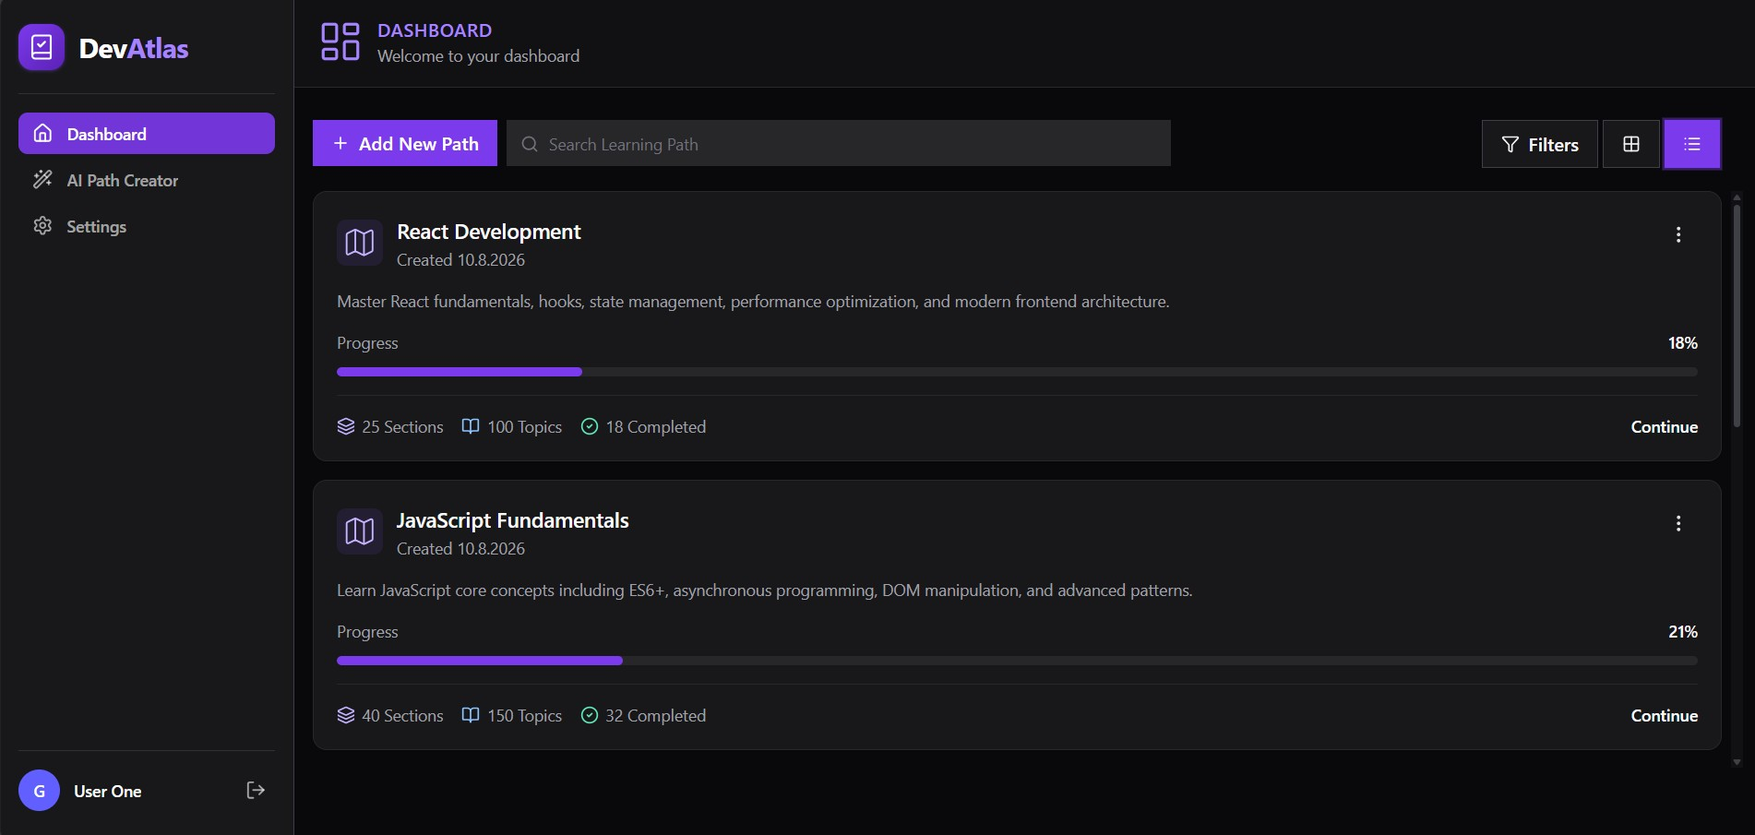
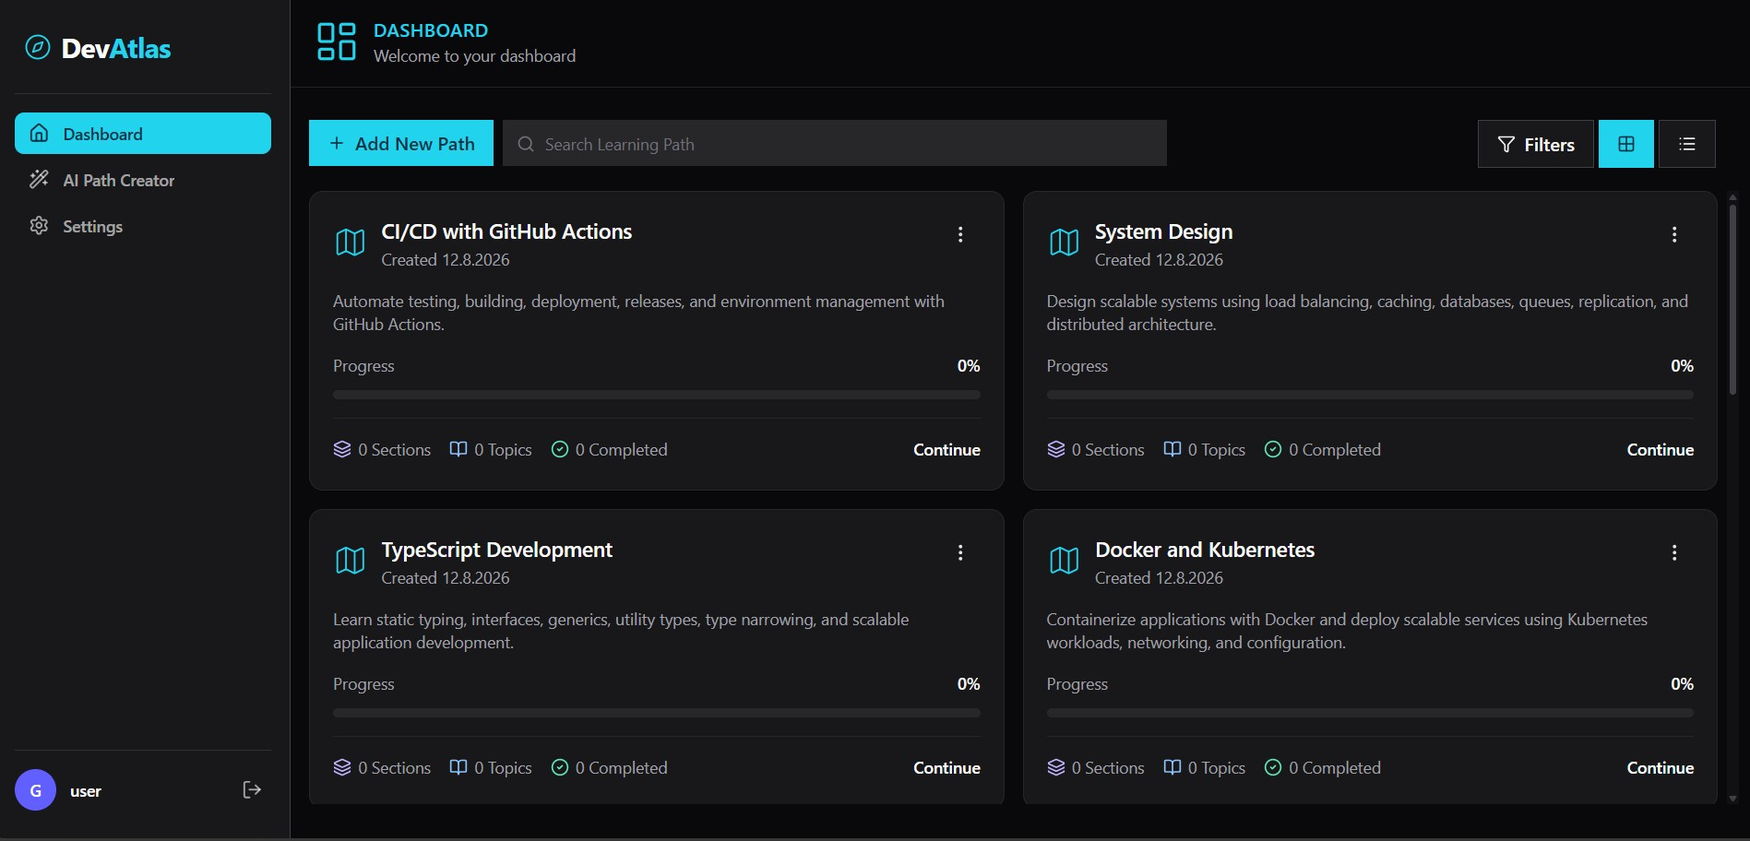
theme changed to cyan

diff --git a/frontend/src/home/copmonents/Hero.tsx b/frontend/src/home/copmonents/Hero.tsx
@@ -12,7 +12,7 @@ export function Hero() {
             />
             <div
                 aria-hidden="true"
-                className="pointer-events-none absolute left-1/2 top-[-18rem] -z-10 h-[36rem] w-[56rem] -translate-x-1/2 rounded-full bg-brand-primary/25 blur-[120px]"
+                className="pointer-events-none absolute left-1/2 top-[-18rem] -z-10 h-[36rem] w-[56rem] -translate-x-1/2 rounded-full bg-brand-primary-dark/20 blur-[120px]"
             />
 
             <nav className="mx-auto flex h-20 w-full max-w-6xl items-center justify-between px-6 md:px-10">
@@ -20,16 +20,10 @@ export function Hero() {
                     to="/"
                     className="text-2xl font-bold tracking-tight text-white"
                 >
-                    Dev<span className="text-violet-400">Atlas</span>
+                    Dev<span className="text-brand-primary-dark">Atlas</span>
                 </Link>
 
                 <div className="flex items-center gap-2">
-                    <Link
-                        to="/dashboard"
-                        className="rounded-lg px-4 py-2 text-sm font-medium text-zinc-400 transition hover:text-white"
-                    >
-                        Dashboard
-                    </Link>
                     <Link
                         to="/auth/login"
                         className="rounded-lg border border-white/10 bg-white/5 dark:bg-stone-900/80 px-4 py-2 text-sm font-medium text-zinc-200 transition hover:border-white/20 hover:bg-white/10"
@@ -48,7 +42,7 @@ export function Hero() {
 
                 <h1 className="mt-6 text-balance text-4xl font-bold leading-[1.1] tracking-tight text-white sm:text-5xl lg:text-6xl">
                     Organize your developer knowledge in{" "}
-                    <span className="bg-gradient-to-r from-purple-500 to-indigo-400 bg-clip-text text-transparent">
+                    <span className="bg-gradient-to-r from-brand-primary-dark-active to-brand-primary-dark-hover bg-clip-text text-transparent">
                         one place
                     </span>.
                 </h1>
@@ -61,7 +55,7 @@ export function Hero() {
                 <div className="mt-9 flex flex-col items-center gap-3 sm:flex-row">
                     <Link
                         to="/auth/signup"
-                        className="group inline-flex items-center gap-2 rounded-xl bg-brand-primary px-6 py-3 text-sm font-semibold text-white shadow-lg shadow-brand-primary/25 transition hover:bg-brand-primary-hover"
+                        className="group inline-flex items-center gap-2 rounded-xl bg-brand-primary-dark px-6 py-3 text-sm font-semibold text-cyan-950 shadow-lg shadow-brand-primary-dark/20 transition hover:bg-brand-primary-dark-hover"
                     >
                         Get started
                         <ArrowRight size={16} className="transition-transform group-hover:translate-x-0.5" />
@@ -69,7 +63,7 @@ export function Hero() {
                 </div>
             </div>
 
-            <figure className="shadow-2xl shadow-indigo-500/50 mx-auto mt-14 flex w-full max-w-6xl justify-center px-6 sm:px-10">
+            <figure className="mx-auto mt-14 flex w-full max-w-6xl justify-center px-6 shadow-2xl shadow-cyan-500/30 sm:px-10">
                 <img
                     src={previewImage}
                     alt="DevAtlas dashboard preview"

diff --git a/frontend/src/features/authentication/pages/SignupPage.tsx b/frontend/src/features/authentication/pages/SignupPage.tsx
@@ -30,7 +30,7 @@ export function SignupPage() {
         signUpUser(dto);
     }
 
-    const inputClassName = "h-11 rounded-xl !border-zinc-300 !bg-white/50 px-4 text-zinc-950 shadow-sm placeholder:text-zinc-400 hover:!border-zinc-400 focus:!border-brand-primary focus:!bg-white/75 focus:ring-4 focus:ring-brand-primary/10 dark:!border-violet-300/30 dark:!bg-indigo-950/25 dark:text-white dark:placeholder:text-indigo-200/40 dark:hover:!border-violet-300/50 dark:focus:!border-violet-400 dark:focus:!bg-indigo-950/40 dark:focus:ring-violet-400/10";
+    const inputClassName = "h-11 rounded-xl !border-zinc-300 !bg-white/50 px-4 text-zinc-950 shadow-sm placeholder:text-zinc-400 hover:!border-zinc-400 focus:!border-brand-primary focus:!bg-white/75 focus:ring-4 focus:ring-brand-primary/10 dark:!border-cyan-300/30 dark:!bg-cyan-950/20 dark:text-white dark:placeholder:text-cyan-100/40 dark:hover:!border-cyan-300/50 dark:focus:!border-brand-primary-dark dark:focus:!bg-cyan-950/35 dark:focus:ring-brand-primary-dark/10";
 
     return (
         <section className="w-full max-w-lg" aria-labelledby="signup-heading">
@@ -39,7 +39,7 @@ export function SignupPage() {
                 onSubmit={handleSubmit(handleSignUp)}
             >
                 <header className="mb-8">
-                    <p className="mb-2 text-sm font-semibold text-brand-primary dark:text-violet-400">
+                    <p className="mb-2 text-sm font-semibold text-brand-primary dark:text-brand-primary-dark">
                         Start building your atlas
                     </p>
                     <h1
@@ -138,7 +138,7 @@ export function SignupPage() {
                     type="submit"
                     disabled={isPending}
                     variant="primary"
-                    className="mt-2 h-11 w-full rounded-xl shadow-lg shadow-brand-primary/20">
+                    className="mt-2 h-11 w-full rounded-xl shadow-lg shadow-brand-primary/20 dark:shadow-brand-primary-dark/20">
                     {isPending ? "Creating account..." : "Create account"}
                 </Button>
                 </div>
@@ -146,7 +146,7 @@ export function SignupPage() {
                 <p className="mt-6 border-t border-zinc-200 pt-6 text-center text-sm text-zinc-500 dark:border-white/10 dark:text-zinc-400">
                     Already have an account? {" "}
                     <Link to="/auth/login"
-                        className="font-semibold text-brand-primary hover:text-brand-primary-hover dark:text-violet-400 dark:hover:text-violet-300">
+                        className="font-semibold text-brand-primary hover:text-brand-primary-hover dark:text-brand-primary-dark dark:hover:text-brand-primary-dark-hover">
                         Sign in
                     </Link>
                 </p>

diff --git a/frontend/src/features/authentication/pages/LoginPage.tsx b/frontend/src/features/authentication/pages/LoginPage.tsx
@@ -30,7 +30,7 @@ export function LoginPage() {
     };
 
 
-    const inputClassName = "h-11 rounded-xl !border-zinc-300 !bg-white/50 px-4 text-zinc-950 shadow-sm placeholder:text-zinc-400 hover:!border-zinc-400 focus:!border-brand-primary focus:!bg-white/75 focus:ring-4 focus:ring-brand-primary/10 dark:!border-violet-300/30 dark:!bg-indigo-950/25 dark:text-white dark:placeholder:text-indigo-200/40 dark:hover:!border-violet-300/50 dark:focus:!border-violet-400 dark:focus:!bg-indigo-950/40 dark:focus:ring-violet-400/10";
+    const inputClassName = "h-11 rounded-xl !border-zinc-300 !bg-white/50 px-4 text-zinc-950 shadow-sm placeholder:text-zinc-400 hover:!border-zinc-400 focus:!border-brand-primary focus:!bg-white/75 focus:ring-4 focus:ring-brand-primary/10 dark:!border-cyan-300/30 dark:!bg-cyan-950/20 dark:text-white dark:placeholder:text-cyan-100/40 dark:hover:!border-cyan-300/50 dark:focus:!border-brand-primary-dark dark:focus:!bg-cyan-950/35 dark:focus:ring-brand-primary-dark/10";
 
     return (
         <section className="w-full max-w-md" aria-labelledby="login-heading">
@@ -39,7 +39,7 @@ export function LoginPage() {
                 onSubmit={handleSubmit(handleLogin)}
             >
                 <header className="mb-8">
-                    <p className="mb-2 text-sm font-semibold text-brand-primary dark:text-violet-400">
+                    <p className="mb-2 text-sm font-semibold text-brand-primary dark:text-brand-primary-dark">
                         Welcome back
                     </p>
                     <h1
@@ -85,7 +85,7 @@ export function LoginPage() {
                     type="submit"
                     disabled={isPending}
                     variant="primary"
-                    className="mt-2 h-11 w-full rounded-xl shadow-lg shadow-brand-primary/20">
+                    className="mt-2 h-11 w-full rounded-xl shadow-lg shadow-brand-primary/20 dark:shadow-brand-primary-dark/20">
                     {isPending ? "Signing in..." : "Sign in"}
                 </Button>
                 </div>
@@ -94,7 +94,7 @@ export function LoginPage() {
                     Don&apos;t have an account?{" "}
                     <Link
                         to="/auth/signup"
-                        className="font-semibold text-brand-primary hover:text-brand-primary-hover dark:text-violet-400 dark:hover:text-violet-300"
+                        className="font-semibold text-brand-primary hover:text-brand-primary-hover dark:text-brand-primary-dark dark:hover:text-brand-primary-dark-hover"
                     >
                         Sign up
                     </Link>

diff --git a/frontend/src/features/dashboard/index/pages/SectionPage.tsx b/frontend/src/features/dashboard/index/pages/SectionPage.tsx
@@ -53,7 +53,7 @@ export default function SectionPage() {
             <div className="mx-auto flex w-full max-w-7xl flex-col items-start px-4 pb-8 pt-8 md:pt-10">
                 <Link
                     to={`/dashboard/learning-path/${learningPathId}/topic/${topicId}`}
-                    className="mb-6 inline-flex items-center gap-1.5 text-sm font-medium text-neutral-500 transition-colors hover:text-brand-primary dark:text-dark-text-muted dark:hover:text-violet-300"
+                    className="mb-6 inline-flex items-center gap-1.5 text-sm font-medium text-neutral-500 transition-colors hover:text-brand-primary dark:text-dark-text-muted dark:hover:text-brand-primary-dark"
                 >
                     <ArrowLeft size={16} aria-hidden="true" />
                     Back to sections
@@ -73,7 +73,7 @@ export default function SectionPage() {
             <header className="mb-7 border-b border-neutral-300 px-1 pb-5 dark:border-dark-border">
                 <Link
                     to={`/dashboard/learning-path/${learningPathId}/topic/${topicId}`}
-                    className="mb-4 inline-flex items-center gap-1.5 text-sm font-medium text-neutral-500 transition-colors hover:text-brand-primary focus-visible:outline-2 focus-visible:outline-offset-4 focus-visible:outline-brand-primary dark:text-dark-text-muted dark:hover:text-violet-300"
+                    className="mb-4 inline-flex items-center gap-1.5 text-sm font-medium text-neutral-500 transition-colors hover:text-brand-primary focus-visible:outline-2 focus-visible:outline-offset-4 focus-visible:outline-brand-primary dark:text-dark-text-muted dark:hover:text-brand-primary-dark dark:focus-visible:outline-brand-primary-dark"
                 >
                     <ArrowLeft size={16} aria-hidden="true" />
                     Back to sections
@@ -81,7 +81,7 @@ export default function SectionPage() {
 
                 <div className="flex flex-col gap-4 sm:flex-row sm:items-end sm:justify-between">
                     <div className="min-w-0">
-                        <p className="text-xs font-semibold uppercase tracking-[0.16em] text-brand-primary dark:text-violet-300">
+                        <p className="text-xs font-semibold uppercase tracking-[0.16em] text-brand-primary dark:text-brand-primary-dark">
                             Section
                         </p>
                         <h1 className="mt-1 text-2xl font-bold tracking-tight text-neutral-950 dark:text-dark-text sm:text-3xl">

diff --git a/frontend/src/features/authentication/pages/AuthLayout.tsx b/frontend/src/features/authentication/pages/AuthLayout.tsx
@@ -2,12 +2,12 @@ import { Link, Outlet } from "react-router-dom";
 
 export function AuthLayout() {
     return (
-        <main className="relative min-h-screen overflow-hidden bg-gradient-to-br from-white via-violet-50 to-indigo-100 px-4 py-8 sm:px-6 lg:px-10 dark:from-dark-background dark:via-slate-900 dark:to-indigo-950">
+        <main className="relative min-h-screen overflow-hidden bg-gradient-to-br from-white via-violet-50 to-indigo-100 px-4 py-8 sm:px-6 lg:px-10 dark:from-dark-background dark:via-slate-950 dark:to-cyan-950">
 
             {/* Background glow */}
-            <div className="absolute -top-40 -left-40 h-[32rem] w-[32rem] rounded-full bg-brand-primary/20 blur-3xl" />
-            <div className="absolute -bottom-40 -right-40 h-[32rem] w-[32rem] rounded-full bg-indigo-400/20 blur-3xl" />
-            <div className="absolute left-1/2 top-1/2 h-96 w-96 -translate-x-1/2 -translate-y-1/2 rounded-full bg-purple-300/10 blur-3xl" />
+            <div className="absolute -top-40 -left-40 h-[32rem] w-[32rem] rounded-full bg-brand-primary/20 blur-3xl dark:bg-brand-primary-dark/15" />
+            <div className="absolute -bottom-40 -right-40 h-[32rem] w-[32rem] rounded-full bg-indigo-400/20 blur-3xl dark:bg-cyan-400/15" />
+            <div className="absolute left-1/2 top-1/2 h-96 w-96 -translate-x-1/2 -translate-y-1/2 rounded-full bg-purple-300/10 blur-3xl dark:bg-cyan-300/10" />
 
             {/* Logo */}
             <div className="relative z-10">
@@ -15,7 +15,7 @@ export function AuthLayout() {
                     to="/"
                     className="text-2xl font-bold tracking-tight text-zinc-900 dark:text-white"
                 >
-                    Dev<span className="text-brand-primary dark:text-violet-400">Atlas</span>
+                    Dev<span className="text-brand-primary dark:text-brand-primary-dark">Atlas</span>
                 </Link>
             </div>
 

diff --git a/frontend/src/features/dashboard/layout/sidebar/Sidebar.tsx b/frontend/src/features/dashboard/layout/sidebar/Sidebar.tsx
@@ -21,11 +21,11 @@ export function Sidebar() {
         <aside className="h-screen hidden md:flex flex-col w-64 border border-black/10 dark:border-zinc-700 bg-gray-100 dark:bg-zinc-900 px-4 py-6">
 
             <div className="flex items-center border-b border-black/10 pb-5 dark:border-white/10">
-                <div className="flex h-10 w-10 items-center justify-center rounded-xl text-white shadow-sm shadow-violet-500/25">
+                <div className="flex h-10 w-10 items-center justify-center rounded-xl text-brand-primary dark:text-brand-primary-dark">
                     <CompassIcon size={24} strokeWidth={1.5} />
                 </div>
                 <h1 className="text-2xl font-bold tracking-tight text-zinc-900 dark:text-white">
-                    Dev<span className="text-brand-primary dark:text-violet-400">Atlas</span>
+                    Dev<span className="text-brand-primary dark:text-brand-primary-dark">Atlas</span>
                 </h1>
             </div>
 
@@ -44,8 +44,8 @@ export function Sidebar() {
                                     : false;
 
                                 return `group flex items-center gap-3 px-3 py-2 rounded-lg transition text-sm font-medium ${isActive || matchesPrefix
-                                    ? "bg-brand-primary/90 text-white dark:text-white"
-                                    : "text-zinc-600 hover:bg-brand-primary/10 hover:text-zinc-950 dark:text-white/60 dark:hover:text-white"
+                                    ? "bg-brand-primary text-white dark:bg-brand-primary-dark dark:text-cyan-950"
+                                    : "text-zinc-600 hover:bg-brand-primary/10 hover:text-zinc-950 dark:text-white/60 dark:hover:bg-brand-primary-dark/10 dark:hover:text-brand-primary-dark"
                                     }`;
                             }}
                         >

diff --git a/frontend/src/features/dashboard/index/components/sectionPage/SectionAside.tsx b/frontend/src/features/dashboard/index/components/sectionPage/SectionAside.tsx
@@ -6,12 +6,6 @@ interface SectionAsideProps {
     section: SectionDto;
 }
 
-const confidenceStyles: Record<ConfidenceLevel, string> = {
-    [ConfidenceLevel.LOW]: "border-red-200 bg-red-50 text-red-700 dark:border-red-900/60 dark:bg-red-950/30 dark:text-red-300",
-    [ConfidenceLevel.MEDIUM]: "border-amber-200 bg-amber-50 text-amber-700 dark:border-amber-900/60 dark:bg-amber-950/30 dark:text-amber-300",
-    [ConfidenceLevel.HIGH]: "border-emerald-200 bg-emerald-50 text-emerald-700 dark:border-emerald-900/60 dark:bg-emerald-950/30 dark:text-emerald-300",
-};
-
 const confidenceLineStyles: Record<ConfidenceLevel, string> = {
     [ConfidenceLevel.LOW]: "bg-red-500",
     [ConfidenceLevel.MEDIUM]: "bg-amber-400",
@@ -62,9 +56,9 @@ export function SectionAside({ section }: SectionAsideProps) {
                 </div>
             </section>
 
-            <div className="rounded-xl border border-violet-100 bg-violet-50/70 p-5 dark:border-violet-500/20 dark:bg-violet-500/10">
-                <p className="text-sm font-semibold text-violet-950 dark:text-violet-200">Ready to move on?</p>
-                <p className="mt-1.5 text-sm leading-5 text-violet-700/80 dark:text-violet-300/70">
+            <div className="rounded-xl border border-violet-100 bg-violet-50/70 p-5 dark:border-dark-border dark:bg-black/20">
+                <p className="text-sm font-semibold text-violet-950 dark:text-brand-primary-dark">Ready to move on?</p>
+                <p className="mt-1.5 text-sm leading-5 text-violet-700/80 dark:text-white/80">
                     Mark this section complete when you feel comfortable with the material.
                 </p>
             </div>

diff --git a/frontend/src/features/dashboard/index/components/sectionPage/SectionContent.tsx b/frontend/src/features/dashboard/index/components/sectionPage/SectionContent.tsx
@@ -22,7 +22,7 @@ export function SectionContent({ section }: SectionContentProps) {
         <div className="min-w-0 space-y-6">
             <section className="overflow-hidden rounded-xl border border-neutral-200 bg-white shadow-sm dark:border-dark-border dark:bg-dark-card dark:shadow-black/20">
                 <div className="flex items-center gap-2 border-b border-neutral-200 px-5 py-4 dark:border-dark-border">
-                    <BookOpen size={18} className="text-brand-primary dark:text-violet-300" aria-hidden="true" />
+                    <BookOpen size={18} className="text-brand-primary dark:text-brand-primary-dark" aria-hidden="true" />
                     <h2 className="font-semibold text-neutral-950 dark:text-dark-text">Overview</h2>
                 </div>
                 <div className="px-5 py-6 sm:px-7">
@@ -36,7 +36,7 @@ export function SectionContent({ section }: SectionContentProps) {
                 <section className="overflow-hidden rounded-xl border border-neutral-200 bg-neutral-950 shadow-sm dark:border-dark-border dark:bg-black/30 dark:shadow-black/20">
                     <div className="flex items-center justify-between border-b border-white/10 px-5 py-3">
                         <div className="flex items-center gap-2">
-                            <Code2 size={17} className="text-violet-300" aria-hidden="true" />
+                            <Code2 size={17} className="text-brand-primary-dark" aria-hidden="true" />
                             <h2 className="text-sm font-semibold text-neutral-100">Code example</h2>
                         </div>
                         <Button

diff --git a/frontend/src/features/dashboard/index/pages/TopicPage.tsx b/frontend/src/features/dashboard/index/pages/TopicPage.tsx
@@ -48,7 +48,7 @@ export default function TopicPage() {
             <header className="mb-6 border-b border-neutral-300 px-1 pb-4 dark:border-dark-border">
                 <Link
                     to={`/dashboard/learning-path/${learningPathId}`}
-                    className="mb-4 inline-flex items-center gap-1.5 text-sm font-medium text-neutral-500 transition-colors hover:text-brand-primary focus-visible:outline-2 focus-visible:outline-offset-4 focus-visible:outline-brand-primary dark:text-dark-text-muted dark:hover:text-violet-300"
+                    className="mb-4 inline-flex items-center gap-1.5 text-sm font-medium text-neutral-500 transition-colors hover:text-brand-primary focus-visible:outline-2 focus-visible:outline-offset-4 focus-visible:outline-brand-primary dark:text-dark-text-muted dark:hover:text-brand-primary-dark"
                 >
                     <ArrowLeft size={16} aria-hidden="true" />
                     Back to topics
@@ -56,7 +56,7 @@ export default function TopicPage() {
 
                 <div className="flex items-end justify-between gap-6">
                     <div className="min-w-0">
-                        <p className="text-xs font-semibold uppercase tracking-[0.16em] text-brand-primary dark:text-violet-300">
+                        <p className="text-xs font-semibold uppercase tracking-[0.16em] text-brand-primary dark:text-brand-primary-dark">
                             Learning path
                         </p>
                         <h1 className="mt-1 truncate text-2xl font-bold tracking-tight text-neutral-950 dark:text-dark-text">

diff --git a/frontend/src/shared/ui/Button.tsx b/frontend/src/shared/ui/Button.tsx
@@ -27,11 +27,11 @@ export const Button = forwardRef<HTMLButtonElement, ButtonProps>(({
 
     const variantClasses: Record<ButtonVariant, string> = {
         primary:
-            "bg-brand-primary text-white hover:bg-brand-primary/90 focus:ring-brand-primary/40",
+            "bg-brand-primary text-white hover:bg-brand-primary-hover focus:ring-brand-primary/40 dark:bg-brand-primary-dark dark:text-cyan-950 dark:hover:bg-brand-primary-dark-hover dark:focus:ring-brand-primary-dark/40",
         secondary:
-            "border border-zinc-200 bg-white text-zinc-800 hover:bg-zinc-50 focus:ring-brand-primary/30 dark:border-zinc-700 dark:bg-zinc-900 dark:text-zinc-100 dark:hover:bg-zinc-800",
+            "border border-zinc-200 bg-white text-zinc-800 hover:bg-zinc-50 focus:ring-brand-primary/30 dark:border-zinc-700 dark:bg-zinc-900 dark:text-zinc-100 dark:hover:bg-zinc-800 dark:focus:ring-brand-primary-dark/30",
         ghost:
-            "bg-transparent text-zinc-700 hover:bg-zinc-100 focus:ring-brand-primary/30 dark:text-zinc-200 dark:hover:bg-zinc-800",
+            "bg-transparent text-zinc-700 hover:bg-zinc-100 focus:ring-brand-primary/30 dark:text-zinc-200 dark:hover:bg-zinc-800 dark:focus:ring-brand-primary-dark/30",
         danger:
             "bg-red-600 text-white hover:bg-red-600/90 focus:ring-red-600/40",
     };

diff --git a/frontend/src/features/dashboard/shared/components/DashboardHeader.tsx b/frontend/src/features/dashboard/shared/components/DashboardHeader.tsx
@@ -10,10 +10,10 @@ export function DashboardHeader({ title, description, Icon }: DashboardHeaderPro
     return (
         <header className="flex flex-col justify-center h-20 border-b border-black/10 dark:border-white/10 bg-brand-primary p-5 text-white dark:bg-transparent dark:text-dark-text">
             <div className="flex items-center gap-3">
-                {Icon && <Icon className="h-10 w-10 shrink-0 text-white dark:text-violet-400" strokeWidth={1.5} />}
+                {Icon && <Icon className="h-10 w-10 shrink-0 text-white dark:text-brand-primary-dark" strokeWidth={1.5} />}
                 <div className="flex flex-col">
-                    <h1 className="text-base font-semibold uppercase tracking-wide text-white dark:text-violet-400">{title}</h1>
-                    <p className="text-sm text-violet-100 dark:text-dark-text-muted">{description}</p>
+                    <h1 className="text-base font-semibold uppercase tracking-wide text-white dark:text-brand-primary-dark">{title}</h1>
+                    <p className="text-sm text-white dark:text-dark-text-muted">{description}</p>
                 </div>
             </div>
         </header>

diff --git a/frontend/src/features/dashboard/index/pages/LearningPathPage.tsx b/frontend/src/features/dashboard/index/pages/LearningPathPage.tsx
@@ -38,7 +38,7 @@ export default function LearningPathPage() {
                     <Button
                         variant="ghost"
                         leftIcon={<Plus size={16} aria-hidden="true" />}
-                        className="mb-4 w-full shrink-0 rounded-lg border border-dashed border-neutral-300 text-sm text-neutral-600 hover:border-brand-primary hover:bg-violet-50 hover:text-brand-primary dark:border-dark-border dark:text-dark-text-muted dark:hover:border-violet-400 dark:hover:bg-violet-500/10 dark:hover:text-violet-300"
+                        className="mb-4 w-full shrink-0 rounded-lg border border-dashed border-neutral-300 text-sm text-neutral-600 hover:border-brand-primary hover:bg-violet-50 hover:text-brand-primary dark:border-dark-border dark:text-dark-text-muted dark:hover:border-brand-primary-dark dark:hover:bg-brand-primary-dark/10 dark:hover:text-brand-primary-dark"
                         onClick={() => setIsCreateTopicOpen(true)}
                     >
                         Add Topic
